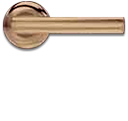
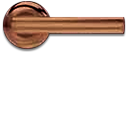
Door - 221 add bronza to sketch

Changed region(s): [[0.0, 0.0, 1.0, 0.4215]]

diff --git a/src/main/resources/static/js/calc/door.class.js b/src/main/resources/static/js/calc/door.class.js
@@ -418,10 +418,10 @@ class Door {
         if (door.sideDoorOpen == "RIGHT") {
             side = "L";
         }
-
+        //images/findings/zamok.png
         $("<img>")
             .attr("class", "top_lock_decor lock_decor_" + side)
-            .attr("src", "images/findings/zamok.png")
+            .attr("src", door.furnitureKit.topInLockDecor.sketchPathFirst)
             .appendTo(containerLeaf);
     }
 
@@ -433,7 +433,7 @@ class Door {
 
         $("<img>")
             .attr("class", "lower_lock_decor lock_decor_" + side)
-            .attr("src", "images/findings/zamokIn.png")
+            .attr("src", door.furnitureKit.lowerInLockDecor.sketchPathFirst)
             .appendTo(containerLeaf);
     }
 
@@ -442,11 +442,13 @@ class Door {
         if (door.sideDoorOpen == "RIGHT") {
             side = "R";
         }
-
+       // "images/findings/zamok.png"
+        door.furnitureKit.topOutLockDecor.sketchPathFirst;
         $("<img>")
             .attr("class", "top_lock_decor lock_decor_" + side)
-            .attr("src", "images/findings/zamok.png")
+            .attr("src", door.furnitureKit.topOutLockDecor.sketchPathFirst)
             .appendTo(containerLeaf);
+
     }
 
     static createLowerOutLockDecor(containerLeaf, door) {
@@ -455,9 +457,10 @@ class Door {
             side = "R";
         }
 
+        //images/findings/zamokIn.png
         $("<img>")
             .attr("class", "lower_lock_decor lock_decor_" + side)
-            .attr("src", "images/findings/zamokIn.png")
+            .attr("src", door.furnitureKit.lowerOutLockDecor.sketchPathFirst)
             .appendTo(containerLeaf);
     }
 
